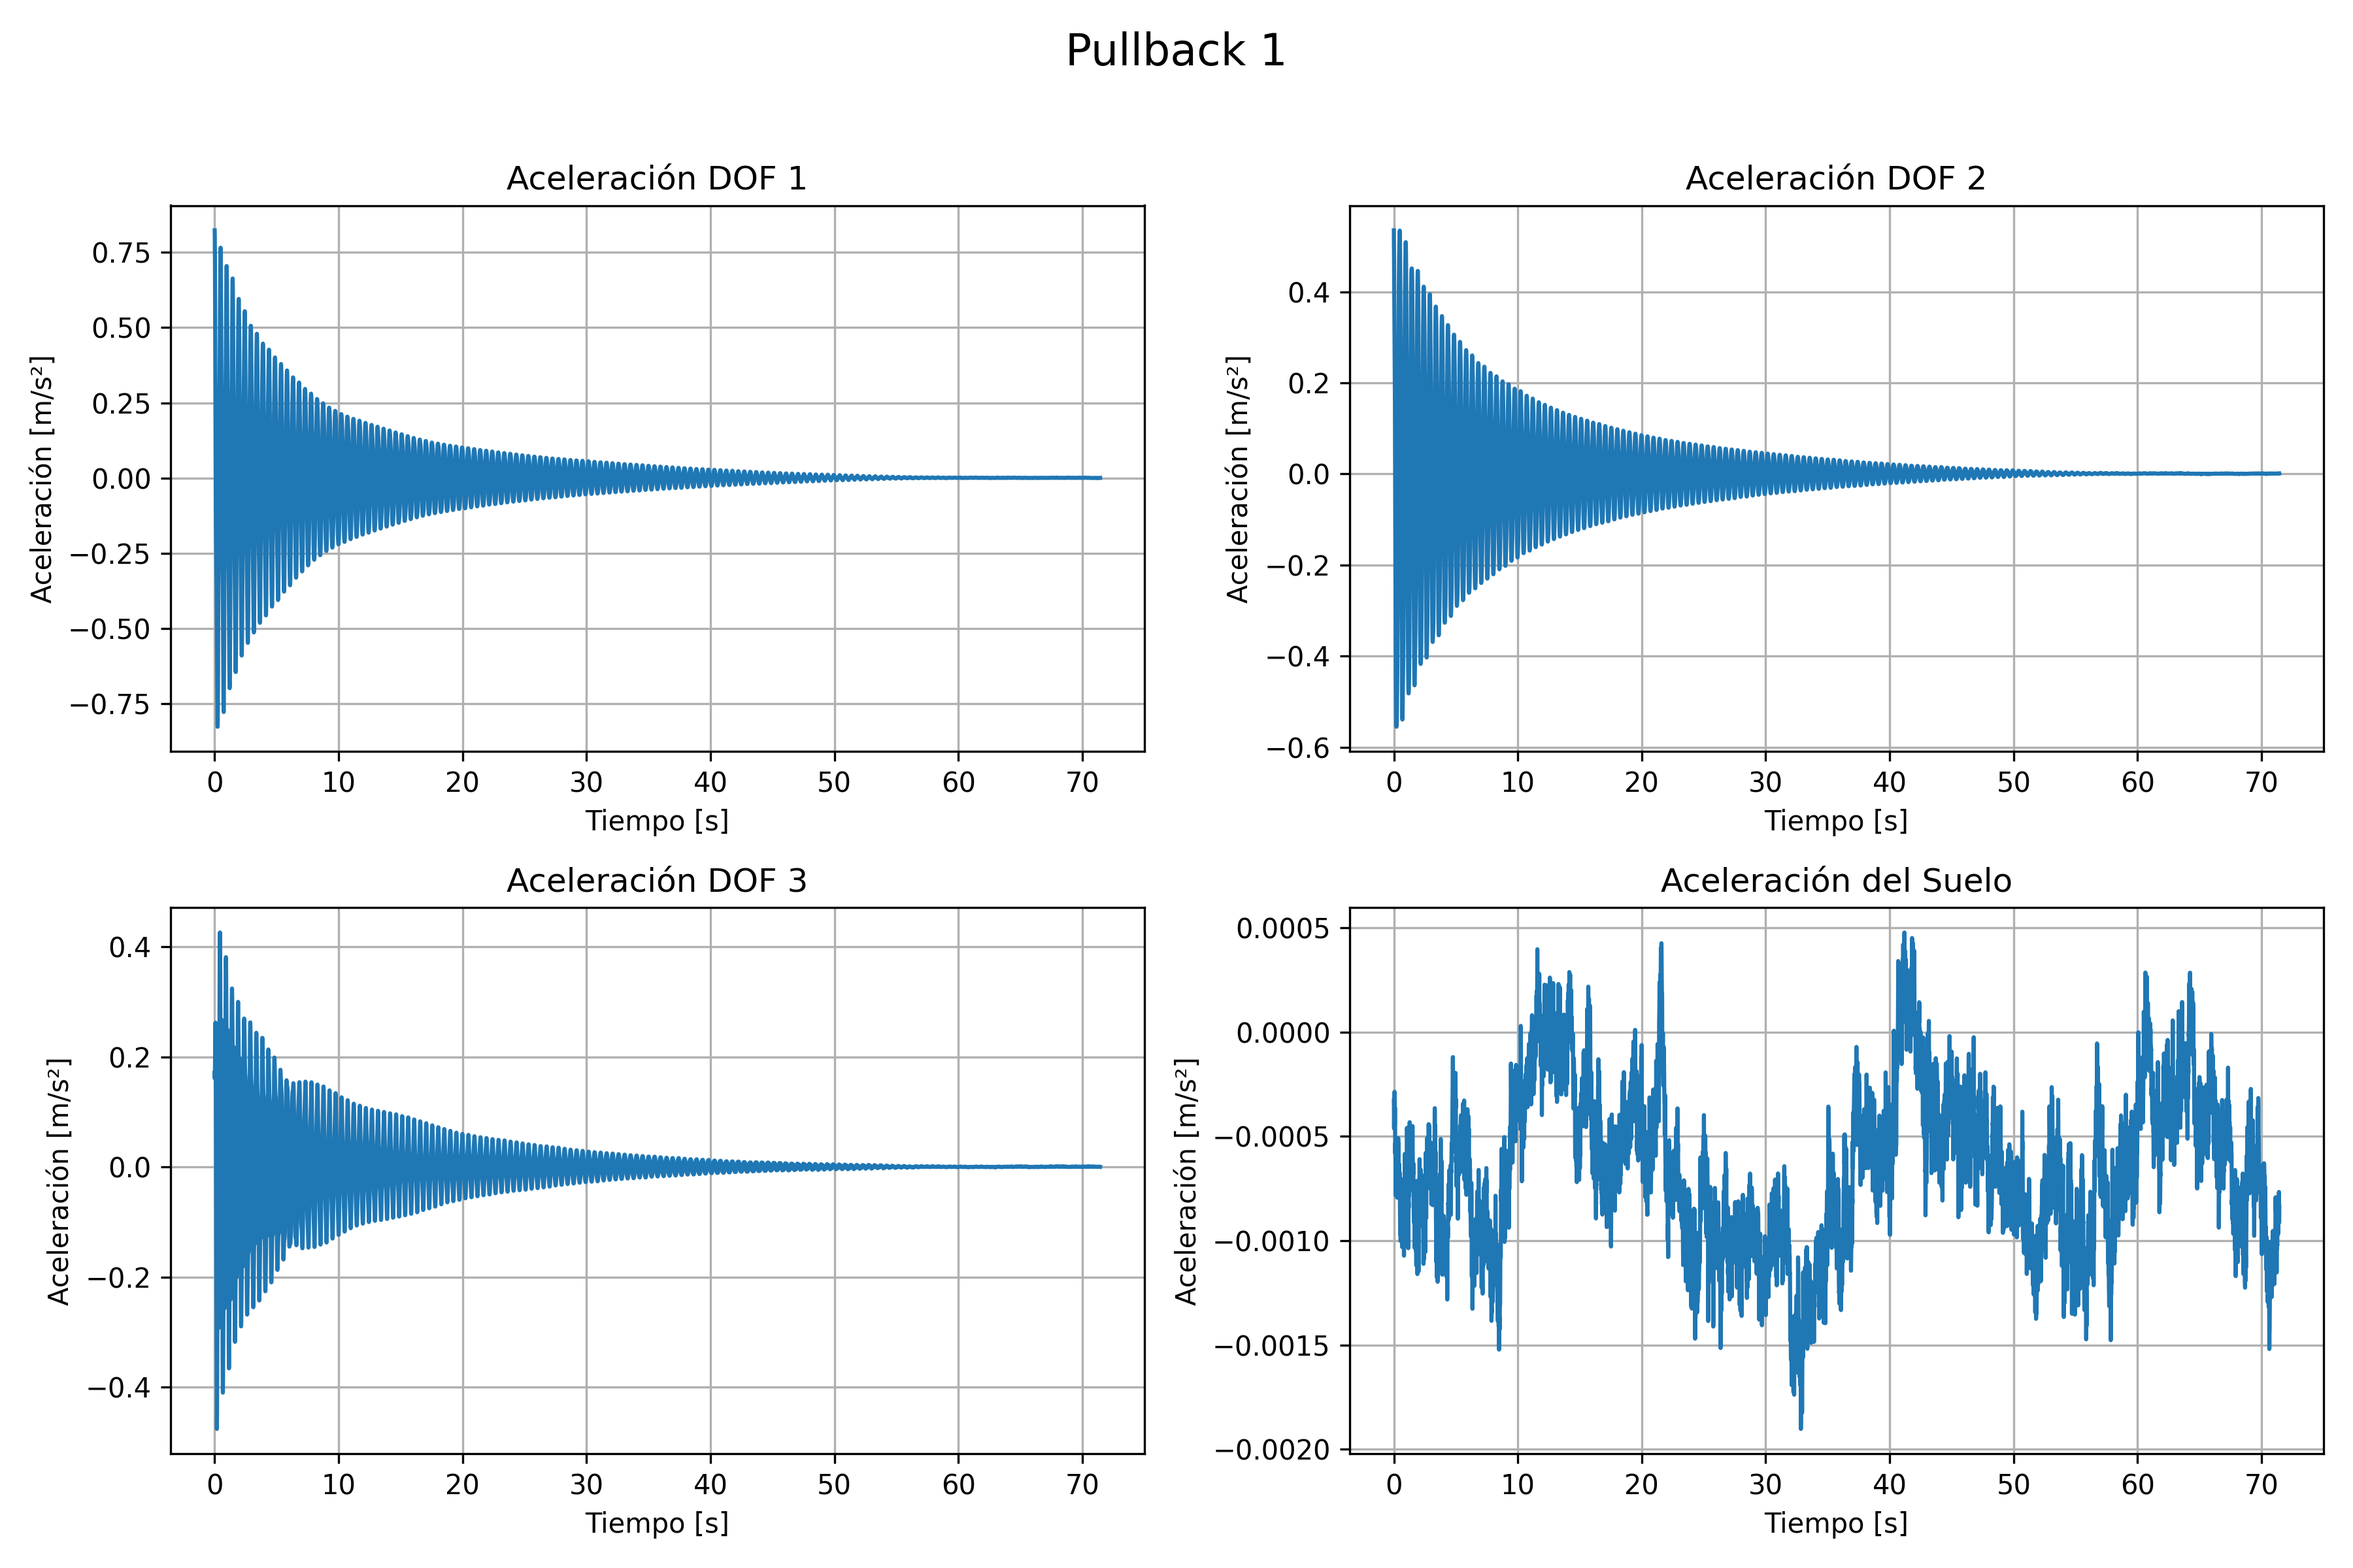
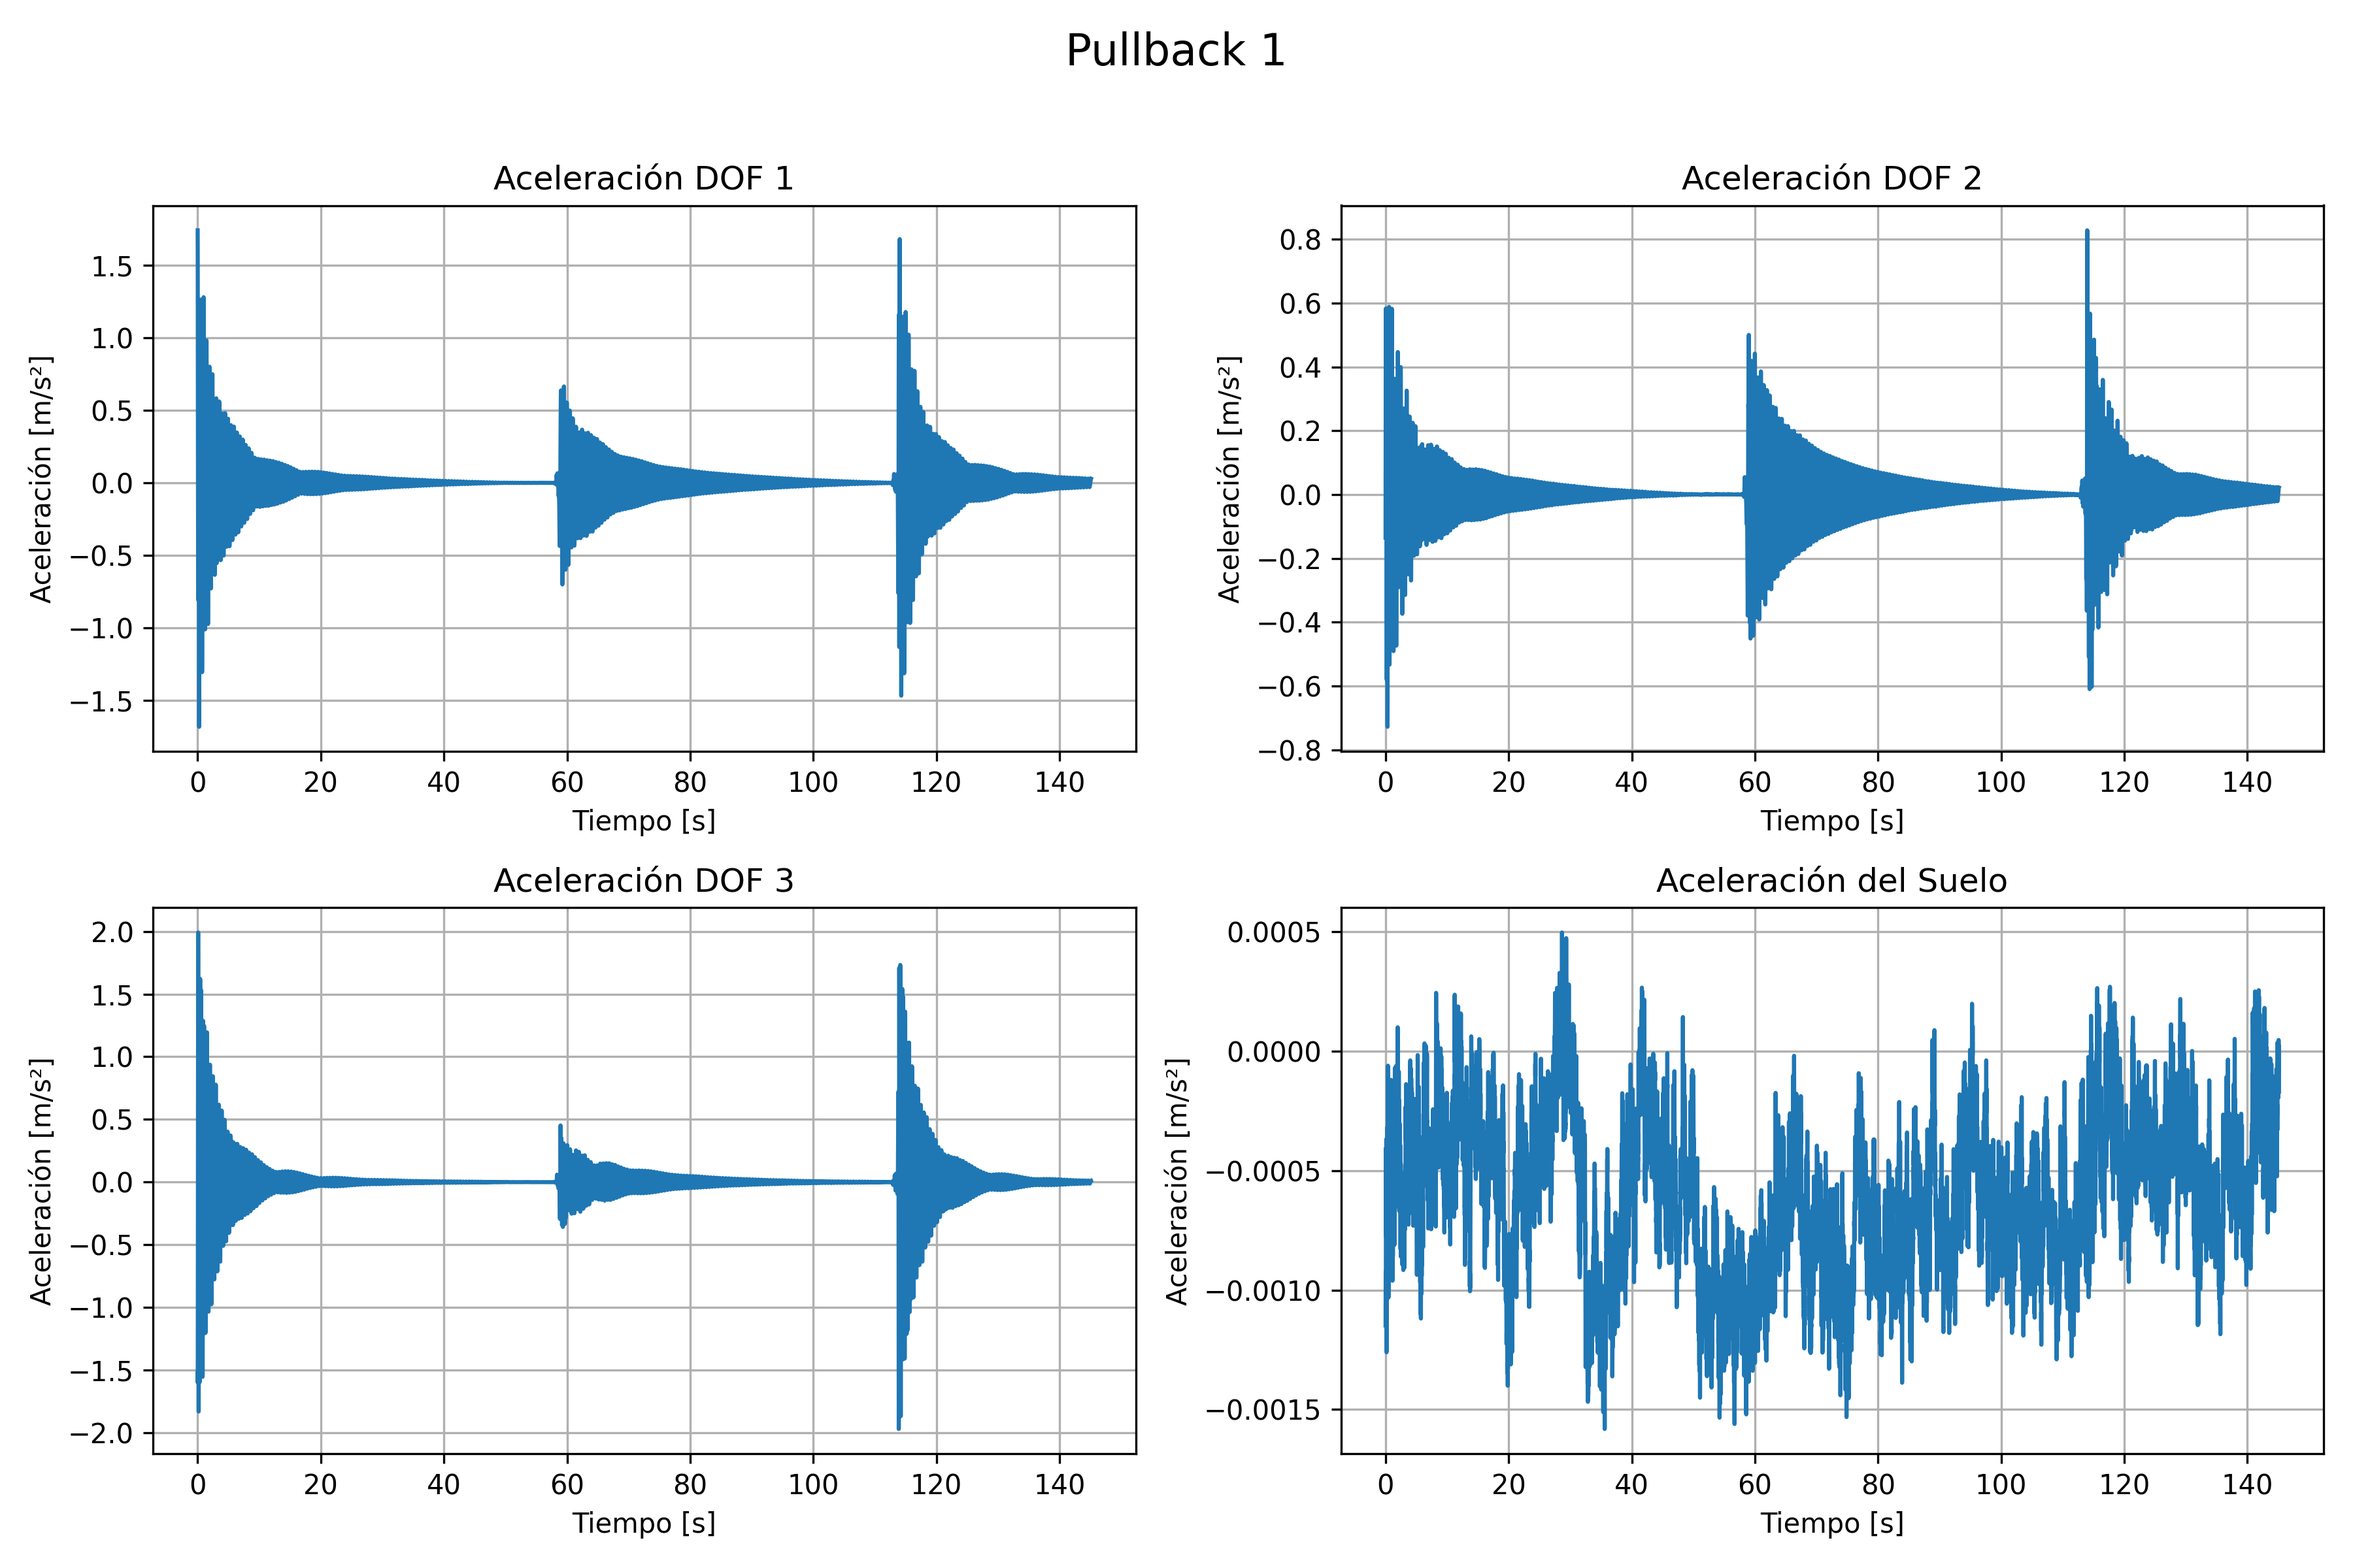
avance

diff --git a/CODIGO/armonic_exitation.py b/CODIGO/armonic_exitation.py
@@ -1,0 +1,96 @@
+import numpy as np
+import pandas as pd
+import matplotlib.pyplot as plt
+import scipy.integrate
+from scipy.signal import detrend, butter, filtfilt, find_peaks
+from scipy.fft import fft, fftfreq
+
+# === 1. Cargar y procesar datos ===
+
+# Cargar archivo completo
+data = np.loadtxt("DATA/Armonica_Base.txt")
+df_total = pd.DataFrame(data, columns=["tiempo", "dof1", "dof2", "dof3", "suelo"])
+
+# Buscar el máximo de DOF1 y recortar desde ese instante hasta el final
+idx_max = df_total["dof1"].idxmax()
+df_segment = df_total.loc[idx_max:].copy()
+df_segment["tiempo"] -= df_segment["tiempo"].iloc[0]  # reiniciar tiempo desde cero
+
+# Usaremos una única lista con un solo pullback
+dfs = [df_segment]
+
+# === 2. Filtro pasa banda ===
+
+def butter_bandpass_filter(signal, lowcut, highcut, fs, order=4):
+    nyq = 0.5 * fs
+    low = lowcut / nyq
+    high = highcut / nyq
+    b, a = butter(order, [low, high], btype="band")
+    return filtfilt(b, a, signal)
+
+# === 3. Identificación modal y Fourier ===
+
+def identificar_modos_fft_con_picos(dfs, fs=200, n_modos=3, fmin=1.0):
+    df_total = pd.concat(dfs, ignore_index=True)
+    T = 1 / fs
+    t = df_total["tiempo"].values
+    N = len(t)
+
+    dofs = ["dof1", "dof2", "dof3"]
+    disp = []
+
+    for dof in dofs:
+        a = df_total[dof].values
+        a = detrend(a)
+        a = butter_bandpass_filter(a, lowcut=0.5, highcut=20, fs=fs)
+
+        v = scipy.integrate.cumulative_trapezoid(a, dx=T, initial=0)
+        v = detrend(v)
+        d = scipy.integrate.cumulative_trapezoid(v, dx=T, initial=0)
+        d = detrend(d)
+        disp.append(d)
+
+    disp = np.array(disp)
+    Y = np.array([fft(d) for d in disp])
+    freqs = fftfreq(N, T)
+    mask = freqs > fmin
+    freqs_pos = freqs[mask]
+    Y_mag = np.abs(Y[:, mask])
+
+    # Magnitud combinada
+    suma_magnitud = np.sum(Y_mag, axis=0)
+
+    # Buscar picos reales
+    peaks, _ = find_peaks(suma_magnitud, distance=fs//2)  # evitar picos muy juntos
+    top_peaks = peaks[np.argsort(suma_magnitud[peaks])[-n_modos:]]
+
+    frecs_naturales = []
+    formas_modales = []
+
+    for idx in sorted(top_peaks):
+        f = freqs_pos[idx]
+        frecs_naturales.append(f)
+
+        forma = Y_mag[:, idx]
+        forma /= np.max(np.abs(forma))
+        formas_modales.append(forma)
+
+    return frecs_naturales, formas_modales, freqs_pos, Y_mag
+
+# === Ejecutar ===
+frecs, modos, freqs_pos, Y_mag = identificar_modos_fft_con_picos(dfs, fs=200)
+
+# === Graficar FFT para cada DOF ===
+fig, axs = plt.subplots(3, 1, figsize=(10, 8), sharex=True)
+dofs = ["DOF 1", "DOF 2", "DOF 3"]
+for i in range(3):
+    axs[i].plot(freqs_pos, Y_mag[i])
+    axs[i].set_ylabel("Magnitud")
+    axs[i].set_title(f"FFT - {dofs[i]}")
+    axs[i].grid(True)
+
+axs[-1].set_xlabel("Frecuencia (Hz)")
+plt.tight_layout()
+plt.savefig("INFORME/GRAFICOS/FFT_Modos.png", dpi=300)
+
+print("Frecuencias naturales (Hz):", frecs)
